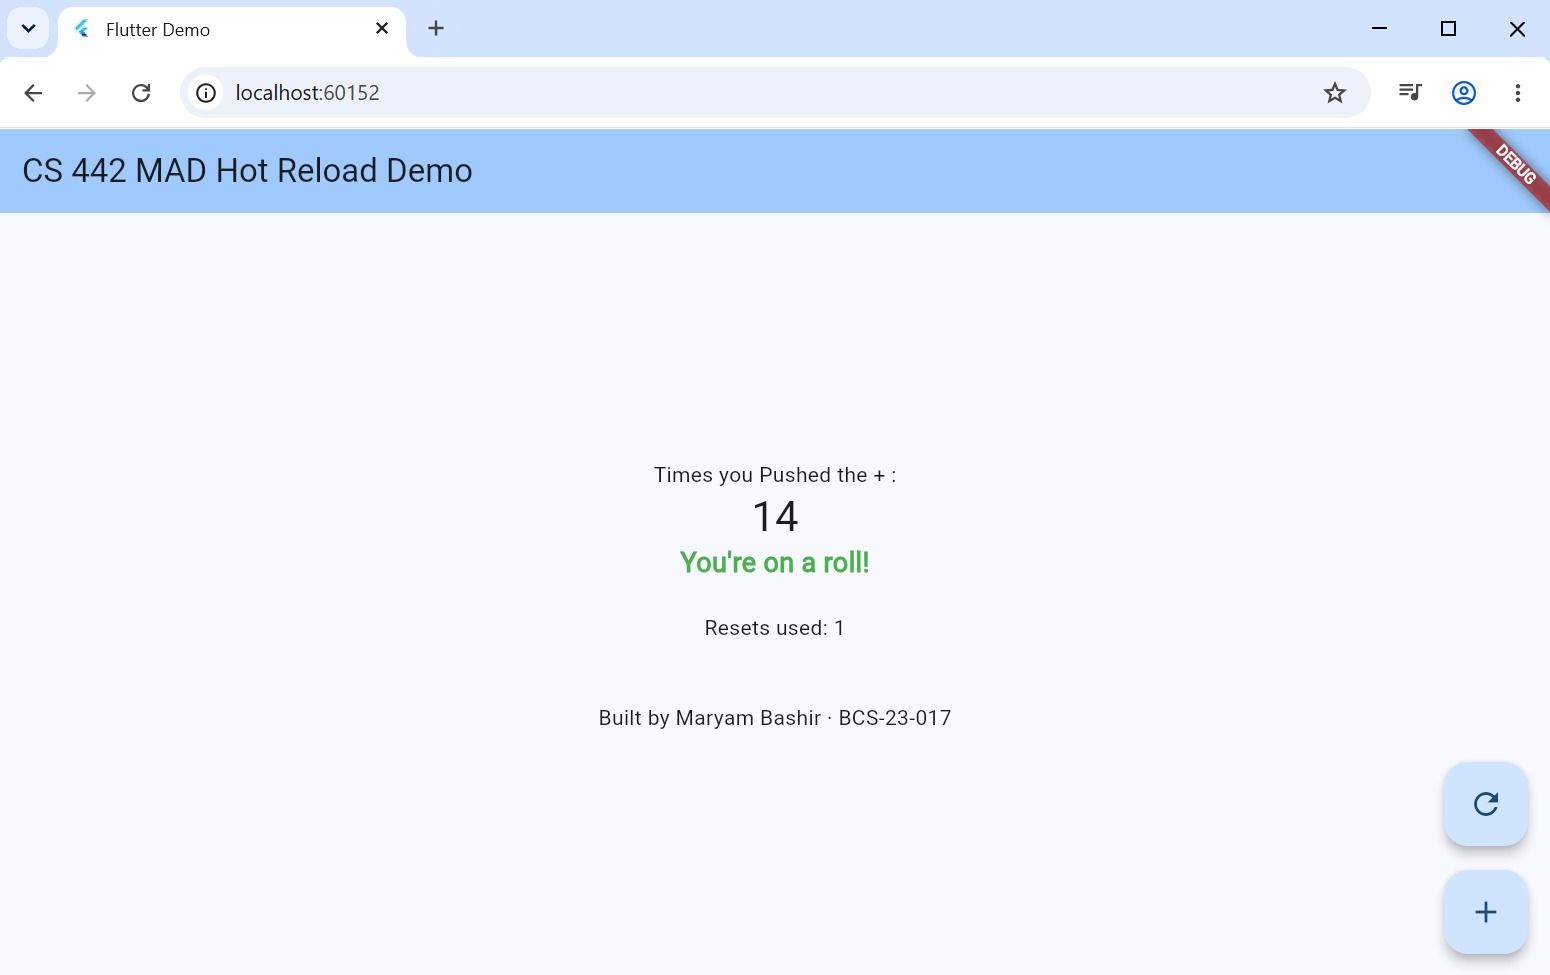
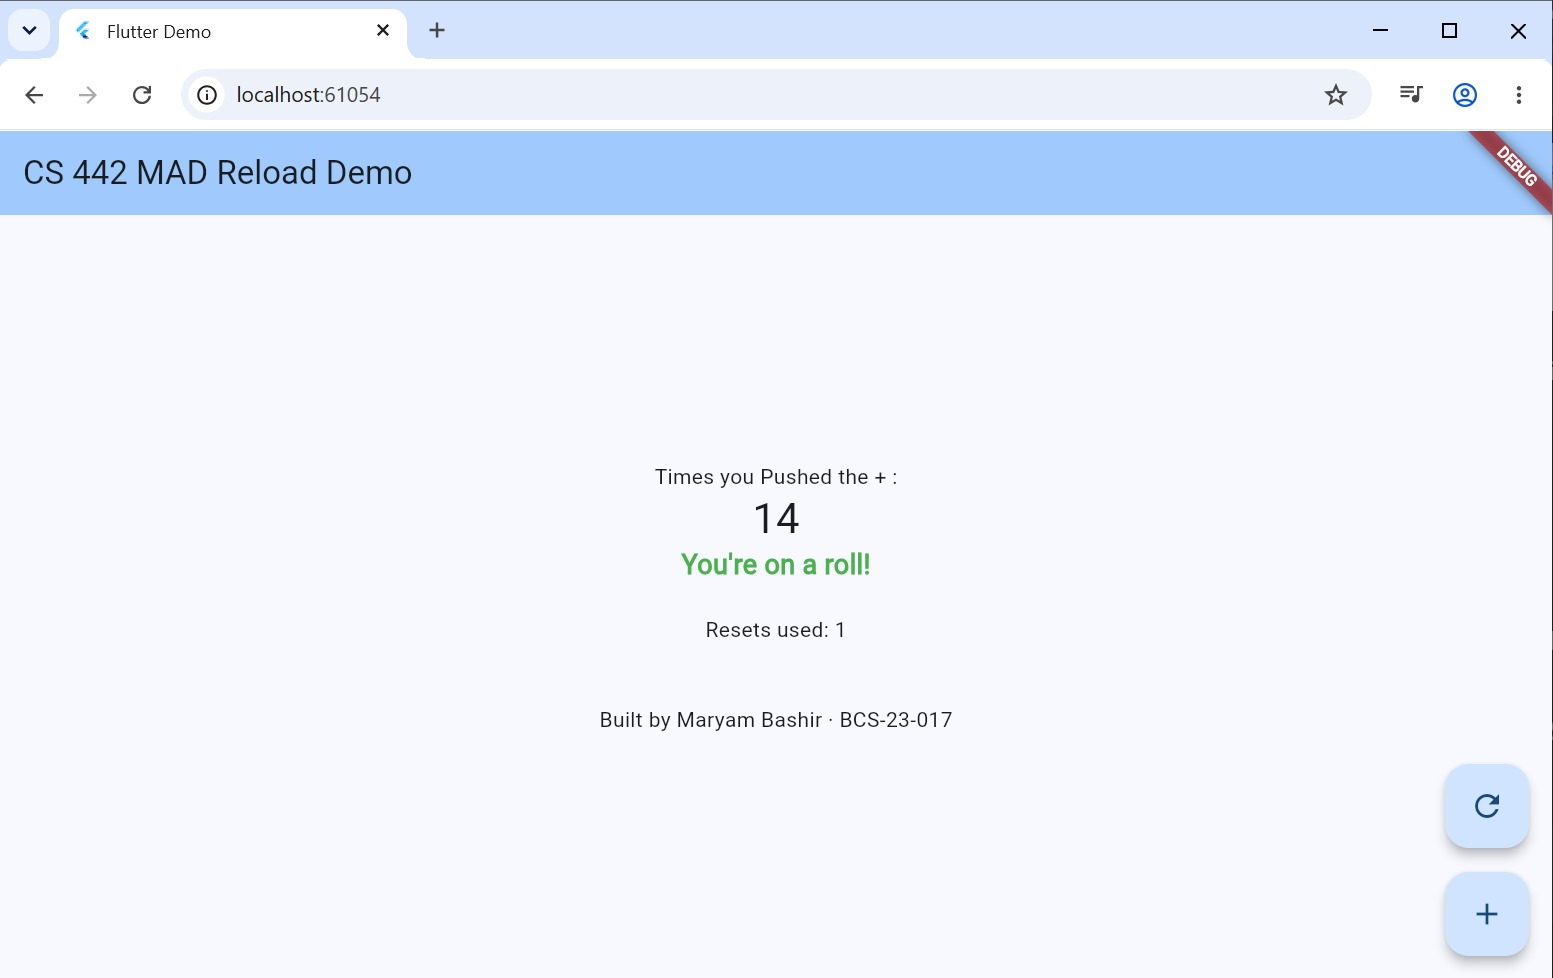
Update title and screenshot

diff --git a/lib/main.dart b/lib/main.dart
@@ -19,7 +19,7 @@ class MyApp extends StatelessWidget {
       theme: ThemeData(
         colorScheme: ColorScheme.fromSeed(seedColor: mySeedColor),
       ),
-      home: const MyHomePage(title: 'CS 442 MAD Hot Reload Demo'),
+      home: const MyHomePage(title: 'CS 442 MAD Reload Demo'),
     );
   }
 }
@@ -35,7 +35,7 @@ class MyHomePage extends StatefulWidget {
 class _MyHomePageState extends State<MyHomePage> {
   int _counter = 0;
   // TASK 3: Reset Tracker State
-  int _resetsUsed = 0; 
+  int _resetsUsed = 0;
 
   void _incrementCounter() {
     setState(() {
@@ -67,25 +67,25 @@ class _MyHomePageState extends State<MyHomePage> {
               '$_counter',
               style: Theme.of(context).textTheme.headlineMedium,
             ),
-            
+
             // TASK 2: Personalised Threshold Message
             if (_counter > myThreshold)
               const Text(
                 "You're on a roll!",
                 style: TextStyle(
-                  color: Colors.green, 
-                  fontSize: 18, 
-                  fontWeight: FontWeight.bold
+                  color: Colors.green,
+                  fontSize: 18,
+                  fontWeight: FontWeight.bold,
                 ),
               ),
-              
+
             const SizedBox(height: 20),
-            
+
             // TASK 3: Reset Tracker UI
             Text('Resets used: $_resetsUsed'),
-            
+
             const SizedBox(height: 40),
-            
+
             // TASK 5: About Line
             const Text('Built by Maryam Bashir · BCS-23-017'),
           ],
